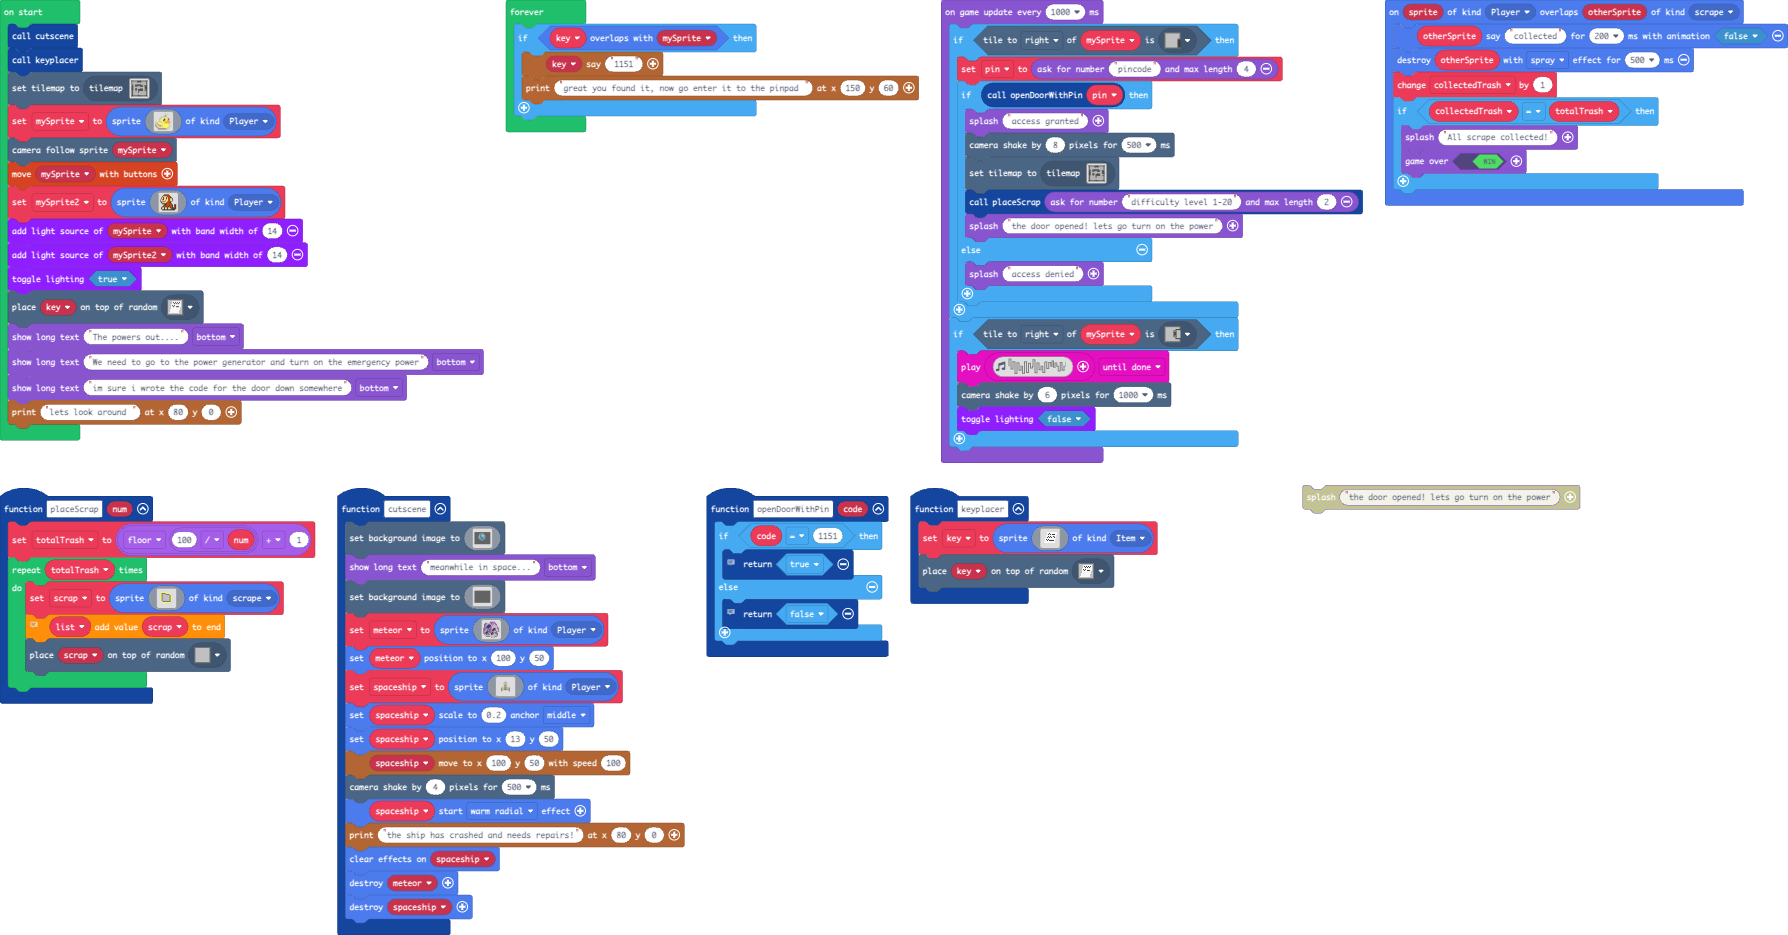
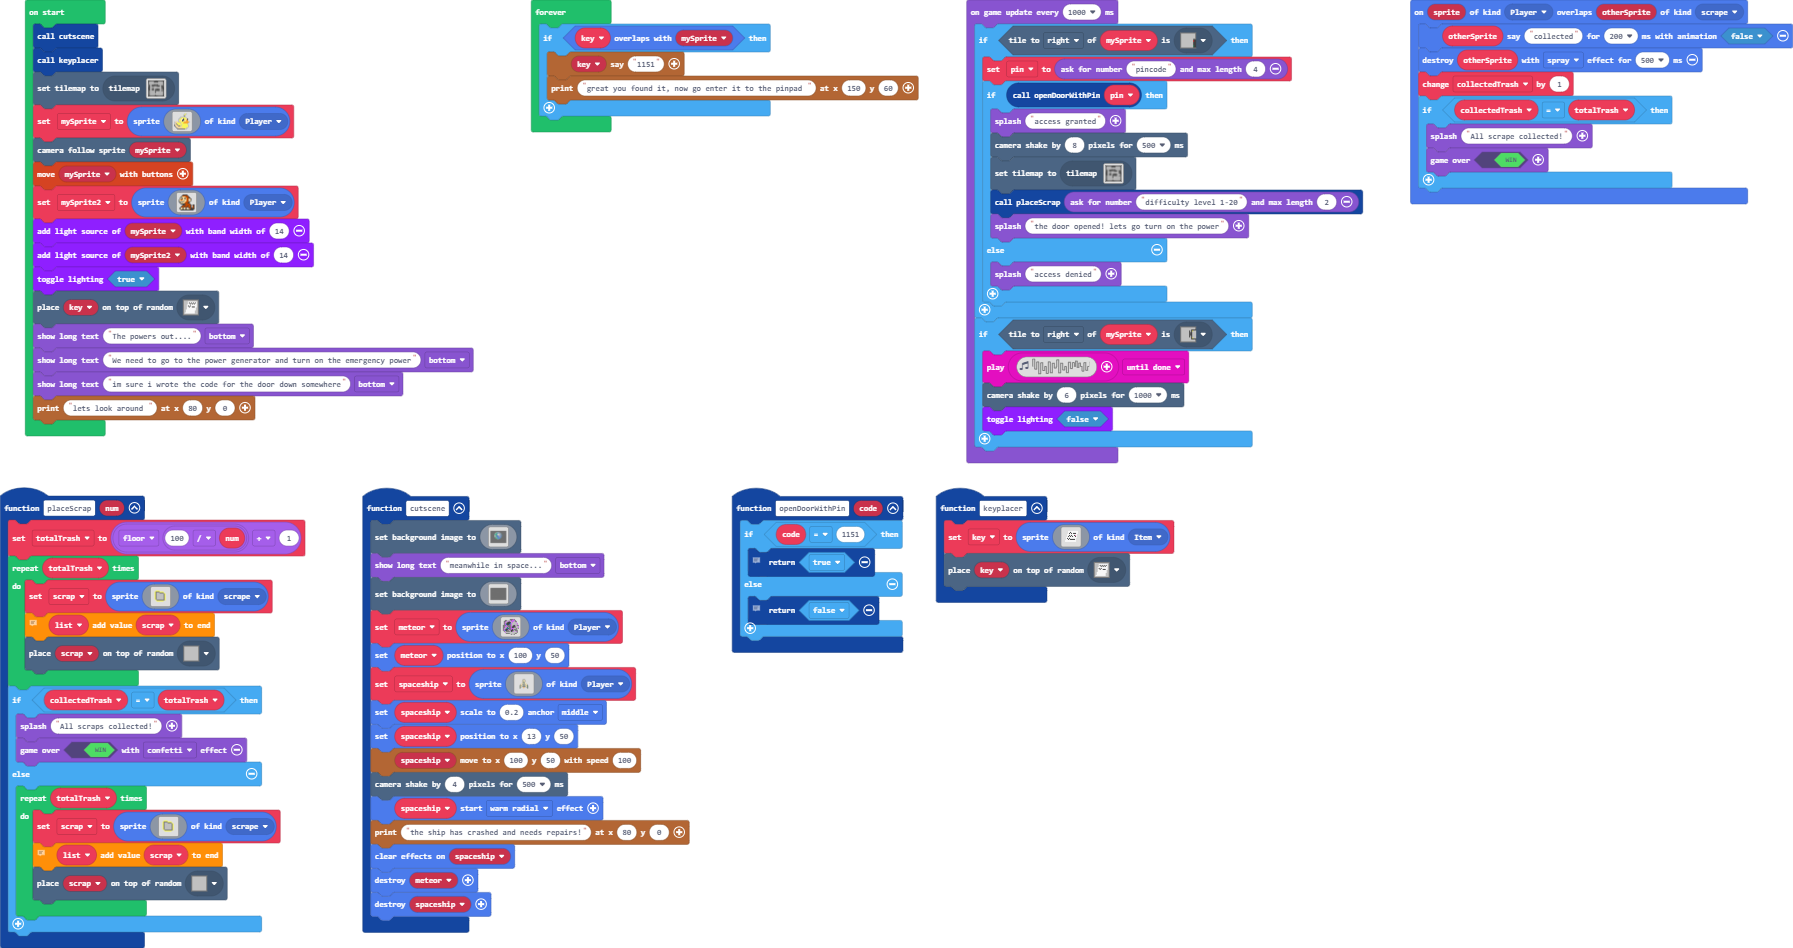
functionupdatep2

Changed region(s): [[0.0, 0.0, 1.0, 1.0], [0.7075, 0.4963, 0.8921, 0.5583]]

diff --git a/main.ts b/main.ts
@@ -46,13 +46,24 @@ function cutscene () {
     sprites.destroy(spaceship)
 }
 function placeScrap (num: number) {
+    let list: Sprite[] = []
     totalTrash = Math.floor(100 / num) + 1
     for (let index = 0; index < totalTrash; index++) {
-        let list: Sprite[] = []
         scrap = sprites.create(assets.image`tattered metal sheet`, SpriteKind.scrape)
         // Add the scrap sprite to the list
         list.push(scrap)
         tiles.placeOnRandomTile(scrap, assets.tile`Tile3`)
+    }
+    if (collectedTrash == totalTrash) {
+        game.splash("All scraps collected!")
+        game.over(true, effects.confetti)
+    } else {
+        for (let index = 0; index < totalTrash; index++) {
+            scrap = sprites.create(assets.image`tattered metal sheet`, SpriteKind.scrape)
+            // Add the scrap sprite to the list
+            list.push(scrap)
+            tiles.placeOnRandomTile(scrap, assets.tile`Tile3`)
+        }
     }
 }
 let pin = 0
